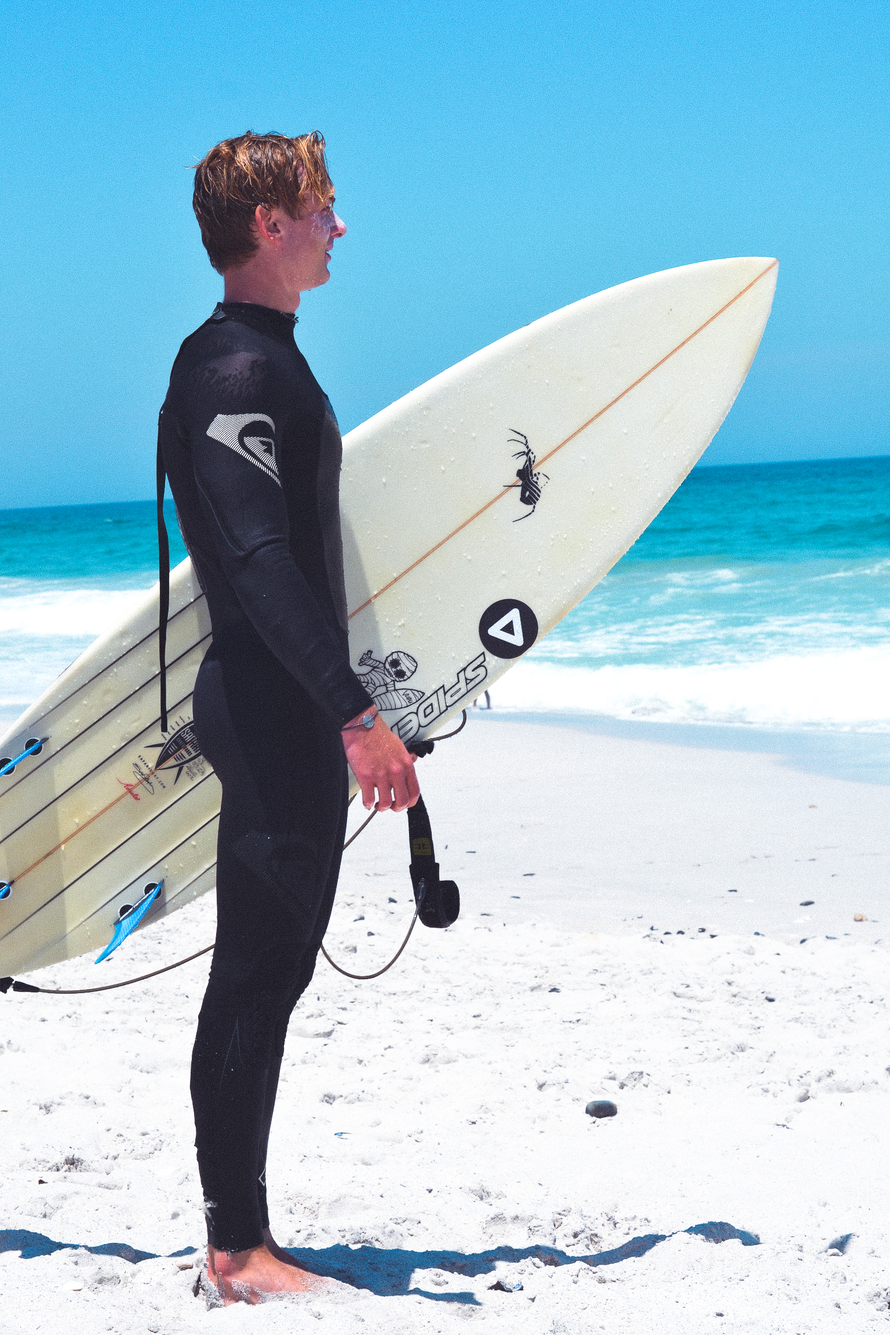
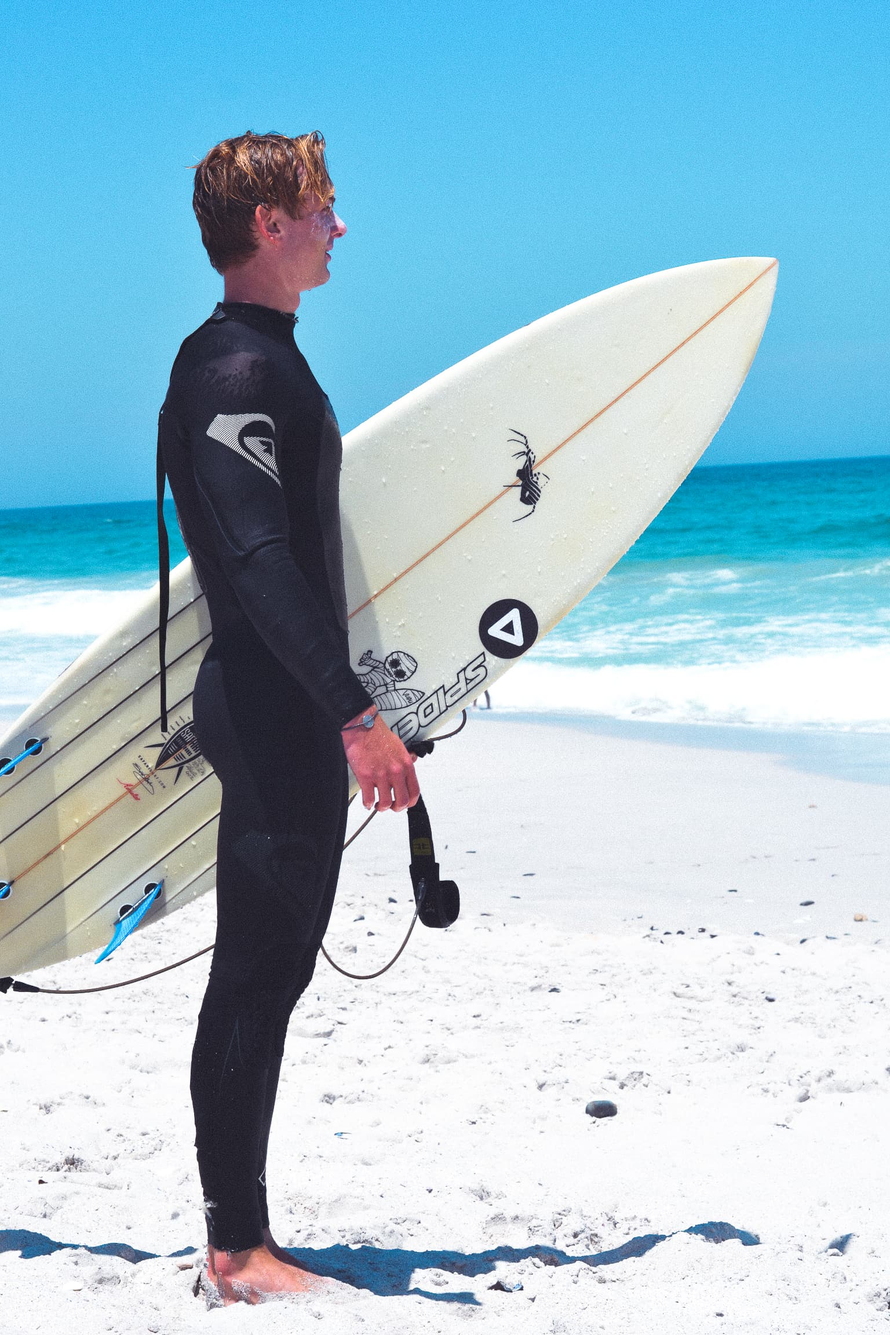
compressed images, added navbar animation

diff --git a/src/components/Navbar.tsx b/src/components/Navbar.tsx
@@ -1,17 +1,58 @@
-import React from "react";
+import React, { useEffect } from "react";
+import { motion, useAnimation } from "framer-motion";
 
+import { ComponentProps } from "../interfaces/interfaces";
 import "../styles/navbar.scss";
 
-export default function Navbar(props: any) {
-	const changePage = props.changePage;
-	const { current, previous } = props.pages;
+export default function Navbar(props: ComponentProps) {
+	const { current, changePage } = props;
+
+	const animation = useAnimation();
+
+	useEffect(() => {
+		if (current == "home") {
+			animation.start({
+				left: 0,
+				width: "2.5rem",
+				transition: {
+					duration: 1,
+					ease: [0.87, 0, 0.13, 1],
+				},
+			});
+		}
+		if (current == "tech") {
+			animation.start({
+				left: "4.6rem",
+				width: "2.1rem",
+				transition: {
+					duration: 1,
+					ease: [0.87, 0, 0.13, 1],
+				}
+			});
+		}
+		if (current == "creative") {
+			animation.start({
+				left: "8.6rem",
+				width: "3.5rem",
+				transition: {
+					duration: 1,
+					ease: [0.87, 0, 0.13, 1],
+				}
+			});
+		}
+	}, [current]);
+
+	function linkClick(str: string) {
+		if (changePage) changePage(str);
+	}
 
 	return (
 		<div className="navWrapper">
 			<nav>
-				<a onClick={() => changePage("home")} className={current == "home" ? "active" : undefined}>Home</a>
-				<a onClick={() => changePage("tech")} className={current == "tech" ? "active" : undefined}>Tech</a>
-				<a onClick={() => changePage("creative")} className={current == "creative" ? "active" : undefined}>Creative</a>
+				<a onClick={() => linkClick("home")} className={current == "home" ? "active" : undefined}>Home</a>
+				<a onClick={() => linkClick("tech")} className={current == "tech" ? "active" : undefined}>Tech</a>
+				<a onClick={() => linkClick("creative")} className={current == "creative" ? "active" : undefined}>Creative</a>
+				<motion.div animate={animation} className="underline"></motion.div>
 			</nav>
 		</div>
 	);

diff --git a/src/App.tsx b/src/App.tsx
@@ -1,12 +1,13 @@
 import React, { useState } from "react";
 
+import { ComponentProps } from "./interfaces/interfaces";
 import Navigation from "./components/Navigation";
 import Navbar from "./components/Navbar";
 import LinksBar from "./components/LinksBar";
 import "./styles/app.scss";
 
 function App() {
-	const [pages, setPages] = useState({ current: "home", previous: "home" });
+	const [pages, setPages] = useState({ current: "home", previous: "home" } as ComponentProps);
 
 	const changePage = (page: string) => {
 		const prev = pages.previous;
@@ -16,9 +17,9 @@ function App() {
 
 	return (
 		<div className="appContainer">
-			<Navbar changePage={changePage} pages={pages} />
+			<Navbar current={ pages.current } previous={ pages.previous } changePage={ changePage } />
 			<LinksBar />
-			<Navigation pages={pages} />
+			<Navigation current={ pages.current } previous={ pages.previous } />
 		</div>
 	);
 }

diff --git a/src/components/Navigation.tsx b/src/components/Navigation.tsx
@@ -1,17 +1,17 @@
 import React from "react";
 
+import { ComponentProps } from "../interfaces/interfaces";
 import Creative from "../pages/Creative";
 import Home from "../pages/Home";
 import Tech from "../pages/Tech";
 
-export default function Navigation(props: any) {
-	const pages = props.pages;
+export default function Navigation(props: ComponentProps) {
 
 	return (
 		<div style={{ display: "flex", width: "100vw", overflow: "hidden" }}>
-			<Home pages={pages} />
-			<Tech pages={pages} />
-			<Creative pages={pages} />
+			<Home current={ props.current } previous={ props.previous } />
+			<Tech current={ props.current } previous={ props.previous }  />
+			<Creative current={ props.current } previous={ props.previous }  />
 		</div>
 	);
 }

diff --git a/src/styles/navbar.scss b/src/styles/navbar.scss
@@ -3,22 +3,23 @@
 	position: absolute;
 	bottom: 0;
 	margin-bottom: 3rem;
+	display: flex;
+	justify-content: center;
 
 	// to counter the gradient in tech
 	z-index: 100;
 
 	nav {
+		width: fit-content;
 		text-align: center;
 
 		a {
-			padding-bottom: 0.625rem;
 			margin: 0 1rem;
 			text-decoration: none;
 		}
 
 		.active {
 			color: rgb(87, 229, 236) !important;
-			border-bottom: 1px solid rgb(87, 229, 236);
 		}
 
 		a:hover {
@@ -28,6 +29,15 @@
 			&.active {
 				color: rgb(87, 229, 236) !important;
 			}
+		}
+
+		.underline {
+			position: relative;
+			height: 1px;
+			width: 2.5rem;
+			margin: 0.625rem 1rem 0 1rem;
+			background-color: rgb(87, 229, 236);
+			left: 0
 		}
 	}
 }

diff --git a/src/pages/Home.tsx b/src/pages/Home.tsx
@@ -1,10 +1,11 @@
 import React, { useEffect } from "react";
 import { motion, useAnimation } from "framer-motion";
 
+import { ComponentProps } from "../interfaces/interfaces";
 import "../styles/home.scss";
 
-export default function Home(props: any) {
-	const { current, previous } = props.pages;
+export default function Home(props: ComponentProps) {
+	const { current } = props;
 
 	const animation = useAnimation();
 
@@ -27,7 +28,6 @@ export default function Home(props: any) {
 			});
 		}
 	}, [current]);
-
 
 	return (
 		<motion.div className="container home" animate={animation}>

diff --git a/src/pages/Creative.tsx b/src/pages/Creative.tsx
@@ -1,10 +1,11 @@
 import React, { useEffect } from "react";
 import { motion, useAnimation } from "framer-motion";
 
+import { ComponentProps } from "../interfaces/interfaces";
 import "../styles/creative.scss";
 
-export default function Creative(props: any) {
-	const { current, previous } = props.pages;
+export default function Creative(props: ComponentProps) {
+	const { current } = props;
 
 	const animation = useAnimation();
 

diff --git a/src/pages/Tech.tsx b/src/pages/Tech.tsx
@@ -1,10 +1,11 @@
 import React, {useEffect} from "react";
 import { motion, useAnimation } from "framer-motion";
 
+import { ComponentProps } from "../interfaces/interfaces";
 import "../styles/tech.scss";
 
-export default function Tech(props: any) {
-	const { current, previous } = props.pages;
+export default function Tech(props: ComponentProps) {
+	const { current, previous } = props;
 
 	const animation = useAnimation();
 

diff --git a/src/styles/linksbar.scss b/src/styles/linksbar.scss
@@ -1,20 +1,19 @@
 .links-bar {
 	position: absolute;
 	bottom: 3rem;
-	right: 1.1rem;
+	left: 3rem;
 	display: flex;
-	flex-direction: column;
 
 	// to counter the gradient in tech
 	z-index: 100;
 
 	a:first-child {
-		margin-bottom: 0.8rem;
+		margin-right: 0.8rem;
 	}
 
 	img {
-		width: 22px;
-		height: 22px;
+		width: 21px;
+		height: 21px;
 	}
 
 	img:hover {

diff --git a/src/interfaces/interfaces.ts b/src/interfaces/interfaces.ts
@@ -1,0 +1,5 @@
+export interface ComponentProps {
+	current: string,
+	previous: string,
+	changePage?(page: string): void
+}

diff --git a/src/styles/tech.scss b/src/styles/tech.scss
@@ -28,6 +28,8 @@
 		}
 
 		.content-col {
+			padding-right: 4rem;
+
 			.row {
 				min-width: 100%;
 				height: 100vh;

diff --git a/src/styles/creative.scss b/src/styles/creative.scss
@@ -28,6 +28,7 @@
 		}
 
 		.col-content {
+			padding-right: 4rem;
 
 			.row {
 				min-width: 100%;
